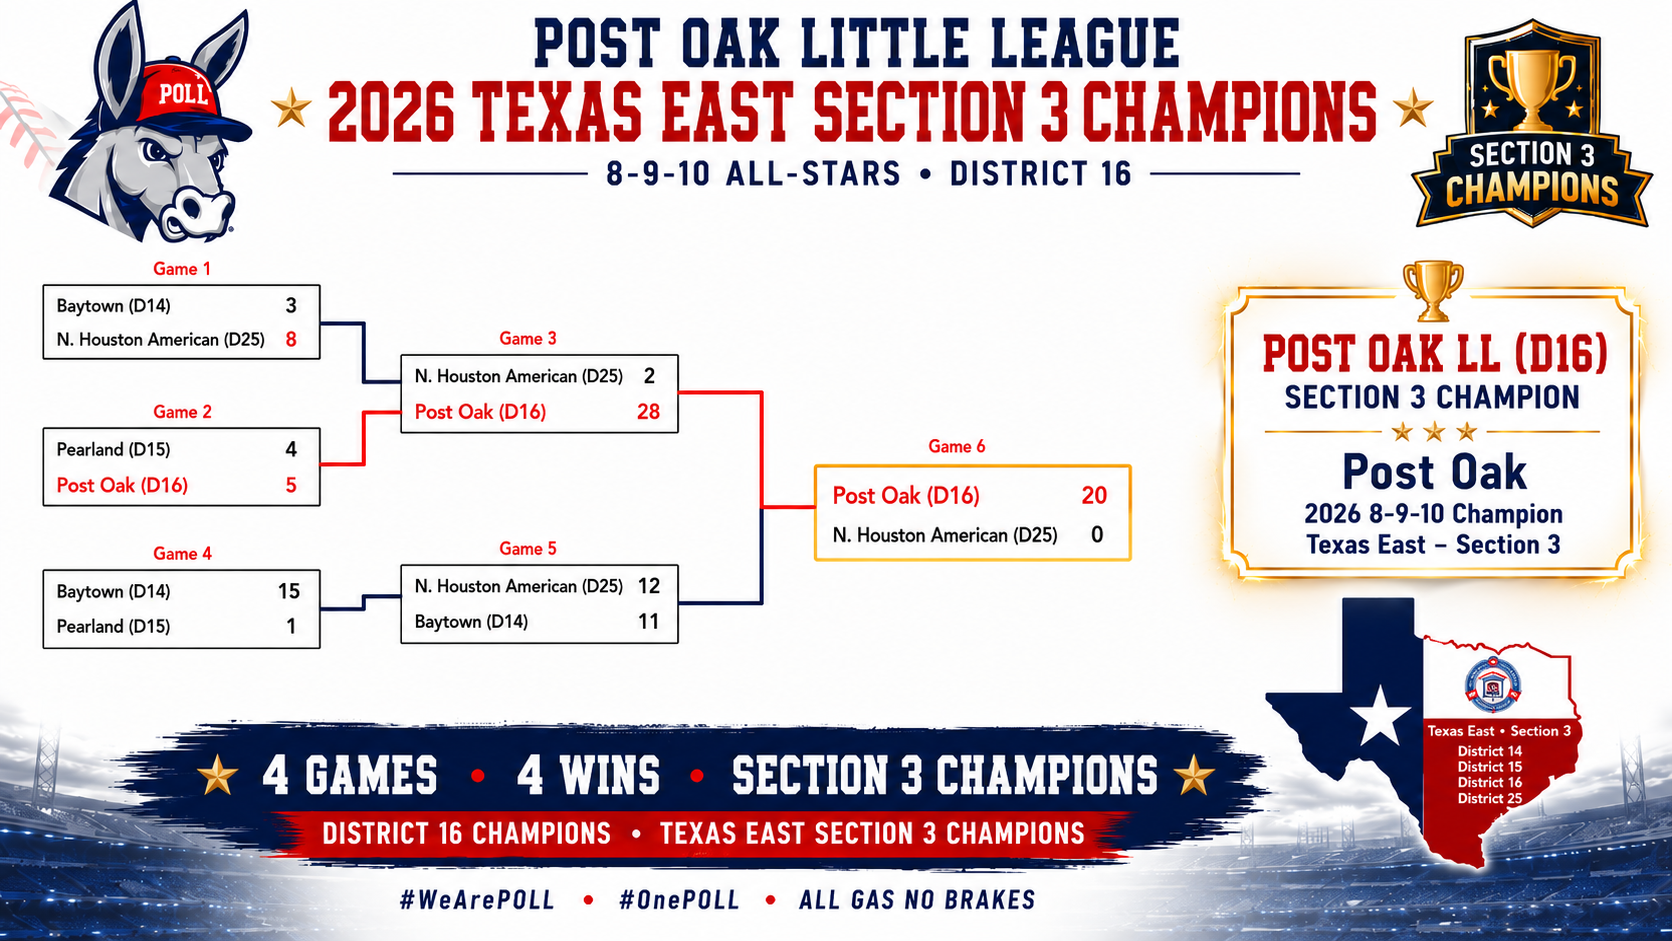
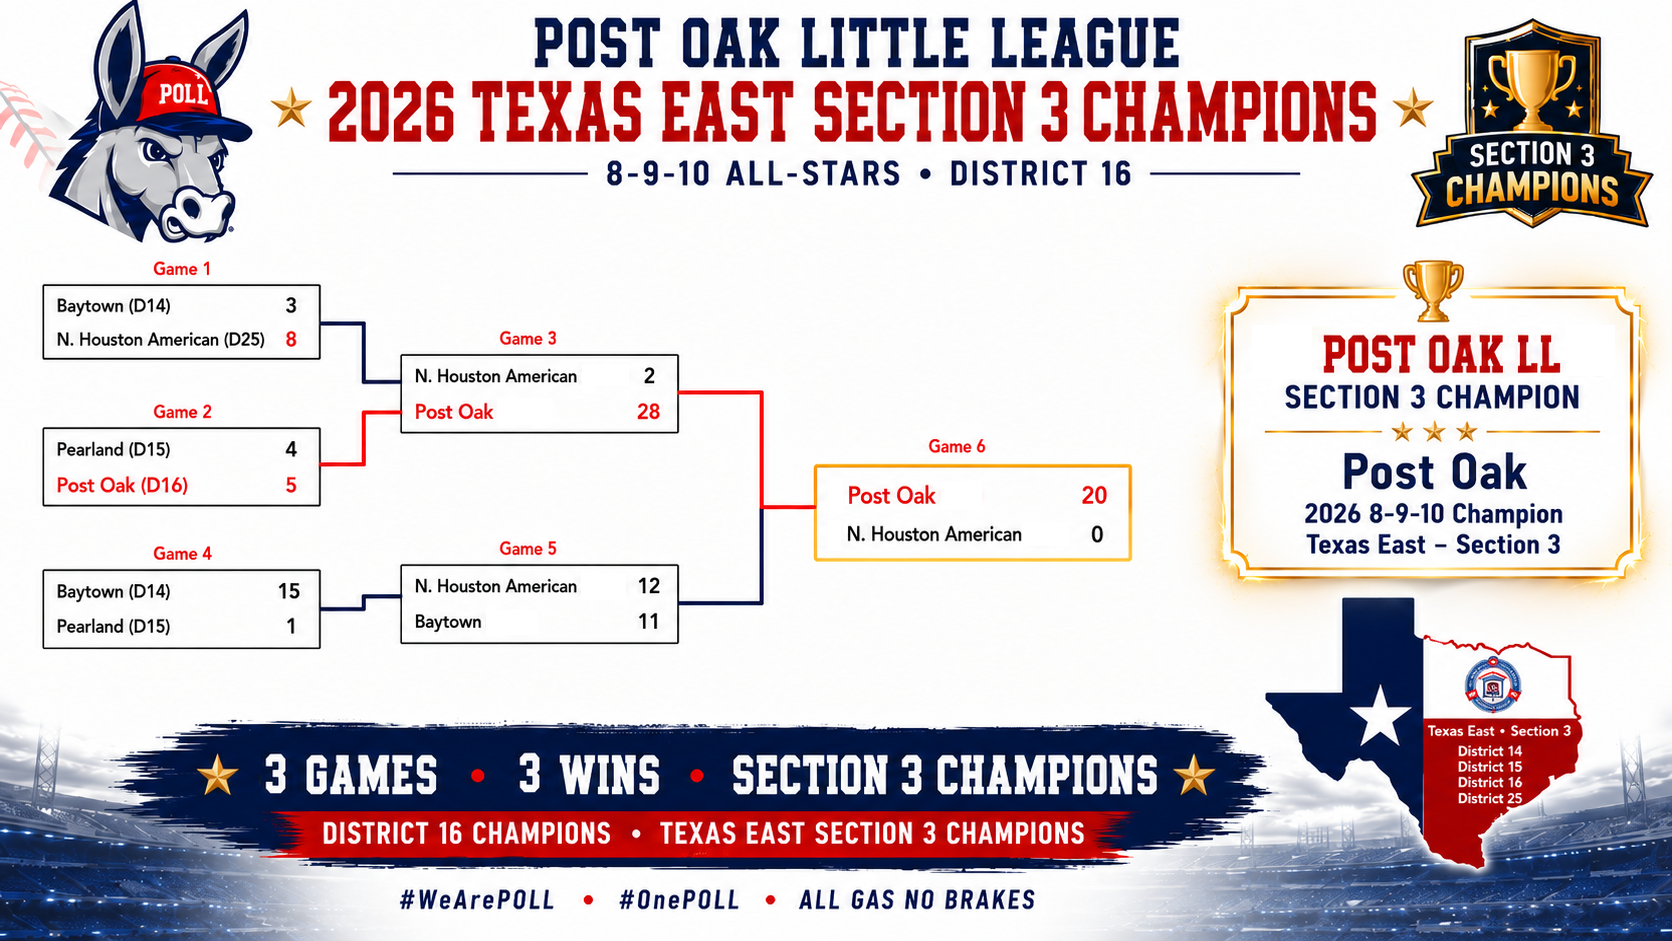
refine legacy edition final polish

diff --git a/index.html b/index.html
@@ -85,7 +85,7 @@
       <div class="section-heading">
         <p class="eyebrow">Our Path</p>
         <h2 id="path-title">Three chapters. One finish.</h2>
-        <p class="lede">The run moved from District 16, through Texas East Section 3, and into the state tournament. Each step demanded another answer. The boys kept answering.</p>
+        <p class="lede">The journey began with a loss. Post Oak answered by winning twelve straight games—six through District 16, three through Section 3, and three at State—to finish as the 2026 Texas East State Champions.</p>
       </div>
       <div class="chapter-grid">
         <article class="chapter-card">
@@ -95,7 +95,7 @@
           <div>
             <span class="panel-kicker">Chapter 01</span>
             <h3>District Championship</h3>
-            <p>After an early setback, Post Oak won six straight elimination games and finished the district run with a winner-take-all shutout.</p>
+            <p>After dropping the opening game, Post Oak faced elimination—and never lost again. Six straight victories completed the comeback, capped by a winner-take-all shutout to claim the District 16 Championship.</p>
           </div>
         </article>
         <article class="chapter-card reverse">
@@ -105,7 +105,7 @@
           <div>
             <span class="panel-kicker">Chapter 02</span>
             <h3>Section Championship</h3>
-            <p>Four games. Four wins. Post Oak came through Section 3 undefeated and earned the right to play for Texas East.</p>
+            <p>Three games. Three wins. Post Oak swept through Texas East Section 3 undefeated to earn a place in the Texas East State Tournament.</p>
           </div>
         </article>
         <article class="chapter-card">
@@ -115,7 +115,7 @@
           <div>
             <span class="panel-kicker">Chapter 03</span>
             <h3>Texas East State Championship</h3>
-            <p>Post Oak went 3–0 at state, allowed one total run, and closed the tournament with a 4–0 championship victory over Lamar.</p>
+            <p>Three games. Three wins. One run allowed. Post Oak completed its twelve-game winning streak with a 4–0 shutout over Lamar to capture the Texas East State Championship.</p>
           </div>
         </article>
       </div>
@@ -124,8 +124,8 @@
     <section id="preparation" class="section media-museum" aria-labelledby="prepared-title">
       <div class="section-heading">
         <p class="eyebrow">We Prepared.</p>
-        <h2 id="prepared-title">Championships are never won alone.</h2>
-        <p class="lede">Before the biggest moments of the season, the team heard from respected voices who helped bring energy, confidence, and belief into the dugout.</p>
+        <h2 id="prepared-title">After our early setback, we called in a little help from our friends.</h2>
+        <p class="lede">Championships are never won alone. Friends of the program shared messages of encouragement, confidence, and belief that helped inspire the team throughout its championship run.</p>
       </div>
       <div class="media-card-grid">
         <article class="video-card">
@@ -133,21 +133,21 @@
             <source src="assets/video/preparation/jon-gruden-message.mp4" type="video/mp4" />
             Your browser does not support HTML5 video. <a href="assets/video/preparation/jon-gruden-message.mp4">Open the media file</a>.
           </video>
-          <div><span class="panel-kicker">Preparation Message</span><h3>Jon Gruden</h3></div>
+          <div><h3>Jon Gruden</h3></div>
         </article>
         <article class="video-card">
           <video controls preload="metadata" playsinline poster="assets/video/posters/bat-boys-message.jpg" aria-label="Eric Shellhouse and Bat Boys encouragement message for the Post Oak 10U team">
             <source src="assets/video/preparation/bat-boys-message.mp4" type="video/mp4" />
             Your browser does not support HTML5 video. <a href="assets/video/preparation/bat-boys-message.mp4">Open the media file</a>.
           </video>
-          <div><span class="panel-kicker">Preparation Message</span><h3>Eric Shellhouse / Bat Boys</h3></div>
+          <div><h3>Eric Shellhouse / Bat Boys</h3></div>
         </article>
         <article class="video-card">
           <video controls preload="metadata" playsinline poster="assets/video/posters/bryce-harper-message.jpg" aria-label="Bryce Harper encouragement message for the Post Oak 10U team">
             <source src="assets/video/preparation/bryce-harper-message.mp4" type="video/mp4" />
             Your browser does not support HTML5 video. <a href="assets/video/preparation/bryce-harper-message.mp4">Open the media file</a>.
           </video>
-          <div><span class="panel-kicker">Preparation Message</span><h3>Bryce Harper</h3></div>
+          <div><h3>Bryce Harper</h3></div>
         </article>
       </div>
     </section>
@@ -156,7 +156,7 @@
       <div class="section-heading">
         <p class="eyebrow">We Got Hyped.</p>
         <h2 id="hype-title">The soundtrack of a run.</h2>
-        <p class="lede">Two approved hype pieces captured the feeling around the team without turning the site into a game replay archive.</p>
+        <p class="lede">Two videos captured the energy, emotion, and belief that surrounded the team as they chased a Texas East State Championship.</p>
       </div>
       <div class="hype-grid">
         <article class="video-card feature-video-card">
@@ -164,37 +164,59 @@
             <source src="assets/video/championship-trailer.mp4?v=legacy-20260716" type="video/mp4" />
             Your browser does not support HTML5 video. <a href="assets/video/championship-trailer.mp4">Open the media file</a>.
           </video>
-          <div><span class="panel-kicker">Featured</span><h3>State Championship Trailer</h3></div>
+          <div><h3>State Championship Trailer</h3></div>
         </article>
         <article class="video-card feature-video-card">
           <video controls preload="metadata" playsinline poster="assets/video/hype-poster.jpg" aria-label="Original hype video for the Post Oak 10U All Stars">
             <source src="assets/video/post-oak-10s-hype.mp4?v=legacy-20260716" type="video/mp4" />
             Your browser does not support HTML5 video. <a href="assets/video/post-oak-10s-hype.mp4">Open the media file</a>.
           </video>
-          <div><span class="panel-kicker">Original Hype Video</span><h3>Catch The Fever</h3></div>
+          <div><span class="panel-kicker">Hype Video</span><h3>Catch The Fever</h3></div>
         </article>
       </div>
     </section>
 
-    <section id="championship" class="section championship-feature legacy-championship" aria-labelledby="championship-title">
-      <div class="section-heading">
-        <p class="eyebrow">The Championship</p>
+    <section id="championship" class="section championship-feature legacy-championship final-chapter" aria-labelledby="championship-title">
+      <div class="section-heading final-chapter-heading">
+        <p class="eyebrow">The Final Chapter</p>
         <h2 id="championship-title">Post Oak 4. Lamar 0.</h2>
-        <p class="lede">In the final game of the Texas East State Tournament, Post Oak finished the job with a shutout and became the 2026 Texas East State Champion.</p>
+        <p class="lede">Twelve straight wins led to one final game. Post Oak completed a perfect 3–0 run through the Texas East State Tournament, allowing just one run in three games and finishing with a 4–0 championship shutout over Lamar.</p>
       </div>
       <figure class="poster-callout legacy-poster">
         <img src="assets/bracket/legacy/state-championship.png" alt="Final state championship bracket graphic celebrating the Post Oak 10U Texas East title" loading="lazy" />
       </figure>
-      <div class="recap-panel">
-        <span class="panel-kicker">Championship Recap</span>
-        <h3>One run allowed all state tournament.</h3>
-        <p>Post Oak opened state with a 6–0 win, won the semifinal 5–1, then shut out Lamar 4–0 in the championship game. The final bracket confirms a 3–0 state tournament record and one total run allowed.</p>
-        <dl class="box-score" aria-label="Concise championship game summary">
-          <div><dt>Final</dt><dd>Post Oak 4, Lamar 0</dd></div>
-          <div><dt>Opponent</dt><dd>Lamar</dd></div>
-          <div><dt>Site</dt><dd>Pearland Little League</dd></div>
-          <div><dt>State record</dt><dd>3 wins, 0 losses</dd></div>
-        </dl>
+      <div class="championship-card-grid" aria-label="Championship game story cards">
+        <article class="championship-story-card score-card">
+          <span class="panel-kicker">Championship Recap</span>
+          <h3>Post Oak 4 • Lamar 0</h3>
+          <p>The final chapter ended with a shutout, a dogpile, and a Texas East State Championship.</p>
+        </article>
+        <article class="championship-story-card">
+          <span class="panel-kicker">Post Oak Offense</span>
+          <h3>Pressure all night.</h3>
+          <p>Four runs on six hits. A three-run home run broke the game open and gave Post Oak the lead. Timely hitting and aggressive baserunning created pressure throughout the game.</p>
+        </article>
+        <article class="championship-story-card">
+          <span class="panel-kicker">Post Oak Pitching</span>
+          <h3>Combined shutout.</h3>
+          <p>Eight strikeouts. Three walks. Lamar was held scoreless over six innings.</p>
+          <dl class="mini-stat-list"><div><dt>LOB</dt><dd>Official box score not available in approved materials</dd></div></dl>
+        </article>
+        <article class="championship-story-card">
+          <span class="panel-kicker">Post Oak Defense</span>
+          <h3>Every out mattered.</h3>
+          <p>Key double plays and routine plays preserved the shutout. The defense recorded the final out to secure the Texas East State Championship.</p>
+        </article>
+        <article class="championship-story-card tournament-snapshot">
+          <span class="panel-kicker">Tournament Snapshot</span>
+          <h3>3–0 at State.</h3>
+          <dl class="snapshot-grid" aria-label="State tournament summary">
+            <div><dt>State Tournament Record</dt><dd>3–0</dd></div>
+            <div><dt>Runs Scored</dt><dd>15</dd></div>
+            <div><dt>Runs Allowed</dt><dd>1</dd></div>
+            <div><dt>Championship Game</dt><dd>Post Oak 4 • Lamar 0</dd></div>
+          </dl>
+        </article>
       </div>
     </section>
 
@@ -202,8 +224,8 @@
       <div class="story-copy">
         <p class="eyebrow">The Team</p>
         <h2 id="team-title">One Team.<br>One Mission.</h2>
-        <p class="lede">Twelve boys. One unforgettable summer. Three tournaments. One state title.</p>
-        <p>The focus of this legacy site is the team as a whole: the work, the families, the coaches, and the moments that turned a summer run into Post Oak history.</p>
+        <p class="lede">Twelve boys. One unforgettable summer. Three tournaments. One State Title.</p>
+        <p>Twelve boys committed to one another and answered every challenge together. With their coaches, families, and league behind them, they turned an opening loss into twelve consecutive victories—and a summer that became part of Post Oak Little League history.</p>
       </div>
       <figure class="watercolor-frame">
         <img src="assets/brand/team-watercolor.webp" alt="Watercolor-style team portrait of the Post Oak 10U All Stars" />
@@ -213,24 +235,26 @@
     <section id="numbers" class="section numbers-section" aria-labelledby="numbers-title">
       <div class="section-heading">
         <p class="eyebrow">The Numbers</p>
-        <h2 id="numbers-title">A championship in bold type.</h2>
+        <h2 id="numbers-title">The story in bold type.</h2>
       </div>
       <div class="number-grid">
         <div><strong>12</strong><span>Players</span></div>
-        <div><strong>14</strong><span>Bracket games documented across the title path</span></div>
+        <div><strong>13</strong><span>Tournament Games</span></div>
+        <div><strong>1</strong><span>Loss</span></div>
+        <div><strong>12</strong><span>Straight Wins</span></div>
         <div><strong>3</strong><span>Championships</span></div>
-        <div><strong>3–0</strong><span>State tournament record</span></div>
-        <div><strong>1</strong><span>Run allowed at state</span></div>
-        <div><strong>150+</strong><span>Teams began the journey</span></div>
+        <div><strong>3–0</strong><span>State Tournament Record</span></div>
+        <div><strong>1</strong><span>Run Allowed at State</span></div>
+        <div><strong>150+</strong><span>Teams Began the Journey</span></div>
         <div><strong>1</strong><span>State Champion</span></div>
       </div>
     </section>
 
     <section id="thanks" class="section thanks-section" aria-labelledby="thanks-title">
       <p class="eyebrow">Thank You</p>
-      <h2 id="thanks-title">This was bigger than one team.</h2>
-      <p class="lede">Thank you to the players, parents, coaches, Post Oak Little League, volunteers, opponents, and families who made the season unforgettable.</p>
-      <p>Special appreciation to the tournament hosts: Missouri City Little League, North Houston American Little League, and Pearland Little League.</p>
+      <h2 id="thanks-title">A championship built by a community.</h2>
+      <p class="lede">This title belongs to twelve players, the parents who made every practice possible, the coaches who believed in them, the volunteers who served the game, and the Post Oak community that supported the team every step of the way.</p>
+      <p>With special appreciation to our tournament hosts—Missouri City Little League, North Houston American Little League, and Pearland Little League—and to every opponent who helped make this championship journey unforgettable.</p>
     </section>
   </main>
 

diff --git a/styles.css b/styles.css
@@ -389,3 +389,48 @@ h3 { font-size: clamp(2.25rem, 5vw, 4.4rem); font-weight: 900; }
   .legacy-site .nav-link { font-size: .58rem; }
   .story-deck h2 { font-size: clamp(2.8rem, 15vw, 4.4rem); }
 }
+
+/* P001 Legacy Edition V2 final polish */
+.legacy-site h1,
+.legacy-site h2,
+.legacy-site h3,
+.legacy-site .nav-link,
+.legacy-site .panel-kicker,
+.legacy-site .number-grid span,
+.legacy-site .btn { overflow-wrap: anywhere; }
+.chapter-card { grid-template-columns: minmax(0, 1.15fr) minmax(300px, .95fr); }
+.chapter-card.reverse { grid-template-columns: minmax(300px, .95fr) minmax(0, 1.15fr); }
+.chapter-card h3 { font-size: clamp(2rem, 4.2vw, 4rem); line-height: .94; }
+.chapter-card p { font-size: clamp(.98rem, 1.45vw, 1.08rem); }
+.media-card-grid .video-card h3 { font-size: clamp(1.7rem, 3vw, 2.5rem); line-height: .96; }
+.final-chapter { grid-template-columns: minmax(0, .92fr) minmax(360px, .78fr); align-items: start; }
+.final-chapter-heading { grid-column: 1 / -1; max-width: 980px; }
+.final-chapter .legacy-poster { grid-row: auto; position: sticky; top: calc(var(--header) + 1.5rem); }
+.championship-card-grid { display: grid; grid-template-columns: repeat(2, minmax(0, 1fr)); gap: .85rem; }
+.championship-story-card { min-height: 220px; display: flex; flex-direction: column; justify-content: flex-end; gap: .75rem; padding: clamp(1.1rem, 2.4vw, 1.6rem); border: 1px solid var(--line); background: linear-gradient(180deg, rgba(255,255,255,.065), rgba(2,8,23,.90)); box-shadow: 0 18px 55px rgba(0,0,0,.22); position: relative; overflow: hidden; }
+.championship-story-card::before { content: ""; position: absolute; inset: auto -18% -38% auto; width: 12rem; height: 12rem; border: 2px solid rgba(217,4,41,.28); transform: rotate(22deg); }
+.championship-story-card > * { position: relative; z-index: 1; }
+.championship-story-card h3 { font-size: clamp(1.9rem, 3.6vw, 3.3rem); line-height: .92; }
+.championship-story-card p { margin: 0; color: var(--muted); }
+.score-card { grid-column: 1 / -1; min-height: 180px; background: linear-gradient(135deg, rgba(217,4,41,.28), rgba(2,8,23,.90)); }
+.score-card h3 { font-size: clamp(2.6rem, 6vw, 5.8rem); text-shadow: 0 5px 0 rgba(217,4,41,.42); }
+.tournament-snapshot { grid-column: 1 / -1; }
+.snapshot-grid, .mini-stat-list { display: grid; grid-template-columns: repeat(2, minmax(0, 1fr)); gap: .6rem; margin: .2rem 0 0; }
+.mini-stat-list { grid-template-columns: 1fr; }
+.snapshot-grid div, .mini-stat-list div { border: 1px solid var(--line); background: rgba(255,255,255,.045); padding: .75rem; }
+.snapshot-grid dt, .mini-stat-list dt { color: var(--muted); text-transform: uppercase; letter-spacing: .1em; font-size: .68rem; font-weight: 900; }
+.snapshot-grid dd, .mini-stat-list dd { margin: .16rem 0 0; color: #fff; font-weight: 900; }
+.number-grid { grid-template-columns: repeat(3, minmax(0, 1fr)); }
+.number-grid div { min-height: 175px; }
+@media (max-width: 980px) {
+  .final-chapter { grid-template-columns: 1fr; }
+  .final-chapter .legacy-poster { position: static; }
+  .championship-card-grid { grid-template-columns: 1fr; }
+  .score-card, .tournament-snapshot { grid-column: auto; }
+  .number-grid { grid-template-columns: repeat(2, minmax(0, 1fr)); }
+}
+@media (max-width: 520px) {
+  .snapshot-grid { grid-template-columns: 1fr; }
+  .number-grid { grid-template-columns: 1fr; }
+  .championship-story-card { min-height: 185px; }
+}

diff --git a/PROJECT_STATUS.md b/PROJECT_STATUS.md
@@ -1,5 +1,32 @@
 # Project Status
 
+## 2026-07-16 — P001 Legacy Edition V2 Final Polish
+
+Status: implemented locally; pending commit, push, GitHub Pages build verification, and production HTTPS verification.
+
+Completed locally:
+
+- Preserved the existing Legacy Edition design language while tightening the storytelling, copy, and typography.
+- Updated the Our Path narrative to emphasize the defining season arc: one loss, twelve straight wins, three championships.
+- Replaced Section Championship artwork with `Sectional Bracket v2.png` from the State Champs Redesign Drive folder.
+- Replaced the team artwork with `Team Watercolor Graphic v2.png` from the State Champs Redesign folder; because the source artwork contains readable jersey names, the public derivative uses non-blur privacy redaction blocks over name areas while preserving players, jersey numbers, and the full team composition.
+- Reworked We Prepared, We Got Hyped, The Final Chapter, The Team, The Numbers, and Thank You copy for stronger museum-style storytelling.
+- Rebuilt The Final Chapter as polished story cards covering the recap, offense, pitching, defense, and tournament snapshot.
+- Updated Numbers to the stronger story metrics: 12 players, 13 tournament games, 1 loss, 12 straight wins, 3 championships, 3-0 state record, 1 run allowed at state, 150+ teams began the journey, 1 state champion.
+
+Verification completed locally:
+
+- HTML parsed for `index.html`, `live.html`, `hype.html`, and `bracket.html`.
+- Local link check found no missing local `href`, `src`, or `poster` targets.
+- Local HTTP smoke test returned HTTP 200 for the homepage.
+- MP4 decode checks passed for all public approved videos.
+- Text scan found no stale public page references to `Watch Live`, third-party livestream URLs, forbidden source-provider labels, `Preparation Message`, `Featured`, or `Original Hype Video`.
+
+Known limitation:
+
+- The Drive materials available to the build did not include an official championship box-score file with LOB. The public Final Chapter therefore labels LOB as unavailable in approved materials rather than inventing a value.
+
+
 ## 2026-07-16 — P001 PostOakLive Legacy Edition
 
 Status: implemented locally; pending commit, push, GitHub Pages build verification, and production HTTPS verification.

diff --git a/DECISIONS.md b/DECISIONS.md
@@ -69,3 +69,24 @@ Reason: several families do not want fully identifying individual player informa
 Decision: use the final state bracket as the verified public source for the championship recap and team-level box summary.
 
 Reason: no separate recap/box-score document was visible in the State Champs Redesign folder during implementation. The bracket verifies the opponent, final score, 3-0 state record, and one run allowed without publishing individual player details.
+
+
+## 2026-07-16 — Legacy Edition V2 final polish
+
+### Team Watercolor v2 privacy treatment
+
+Decision: use the revised Team Watercolor v2 artwork, but publish a derivative with non-blur redaction blocks over jersey-name areas.
+
+Reason: the source artwork contains readable jersey names. The project privacy rule against publishing full player-identifying information remains controlling, while the derivative still preserves the full team composition and jersey numbers.
+
+### Section Championship v2 artwork
+
+Decision: replace the prior section bracket graphic with Sectional Bracket v2.
+
+Reason: the updated graphic accurately reflects the correct three-game Section 3 tournament run.
+
+### Championship LOB
+
+Decision: do not invent or infer runners left on base. Mark LOB unavailable in approved materials until an official box-score source is provided.
+
+Reason: the Drive materials available during this pass did not include an official box-score file with LOB, and the site should prioritize factual accuracy over speculative detail.

diff --git a/CHANGELOG.md b/CHANGELOG.md
@@ -103,3 +103,19 @@
 
 - Removed public livestream provider links and embedded game broadcast behavior from the site.
 - Removed date-aware pregame/live-now behavior that is no longer appropriate after the championship was won.
+
+
+## 2026-07-16 – Legacy Edition V2 final polish
+
+### Changed
+
+- Tightened the Our Path story around the season-defining arc: one loss, twelve straight wins, three championships.
+- Replaced the Section Championship artwork with the approved Sectional Bracket v2 graphic.
+- Replaced the team artwork with the approved Team Watercolor v2 derivative and privacy-redacted jersey-name areas without blurring.
+- Rewrote We Prepared, We Got Hyped, The Final Chapter, The Team, The Numbers, and Thank You copy for stronger permanent-legacy storytelling.
+- Rebuilt the championship section into polished recap, offense, pitching, defense, and tournament snapshot cards.
+- Updated the Numbers section to use stronger story metrics and preserve the verified `150+` team-count figure.
+
+### Notes
+
+- LOB is marked unavailable because no official championship box-score file with LOB was present in the approved Drive materials available during this pass.

diff --git a/README.md b/README.md
@@ -25,7 +25,7 @@ The site is intentionally team-level. Do not add public rosters, player profile 
 - `assets/brand/post-oak-logo-512.png` — compact site/fav icon
 - `assets/brand/post-oak-state-art.jpg` — original state tournament art reference
 - `assets/brand/championship-poster.webp` — retained historical pregame graphic; do not feature where live-event wording would be misleading
-- `assets/brand/team-watercolor.webp` — optimized watercolor team portrait with jersey-name areas redacted for privacy
+- `assets/brand/team-watercolor.webp` — Team Watercolor v2 derivative with jersey-name areas redacted for privacy
 
 ## Media assets
 
@@ -33,7 +33,7 @@ The site is intentionally team-level. Do not add public rosters, player profile 
 - `assets/video/post-oak-10s-hype.mp4` — approved original hype video
 - `assets/video/preparation/` — approved preparation-message video cards
 - `assets/video/posters/` — generated poster frames for preparation videos
-- `assets/bracket/legacy/` — district, section, and state championship bracket artwork
+- `assets/bracket/legacy/` — district, Sectional Bracket v2, and state championship bracket artwork
 
 ## Notes
 